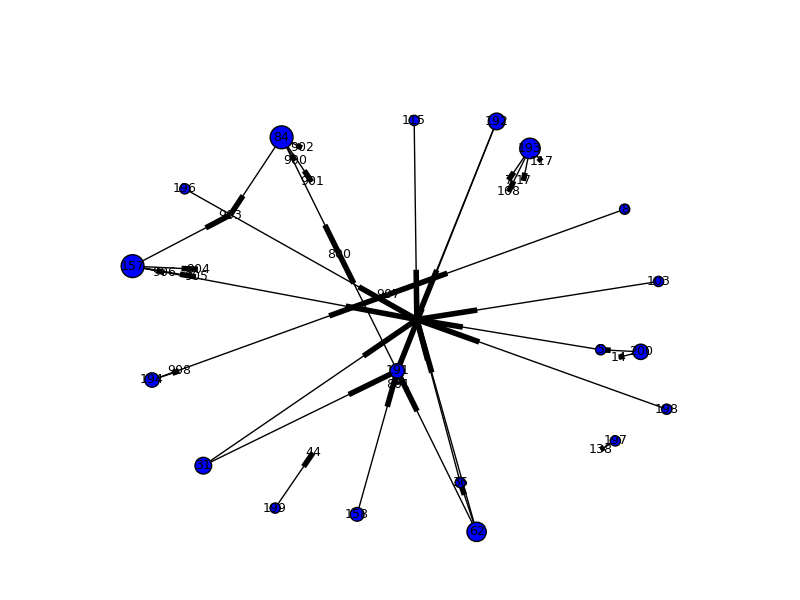
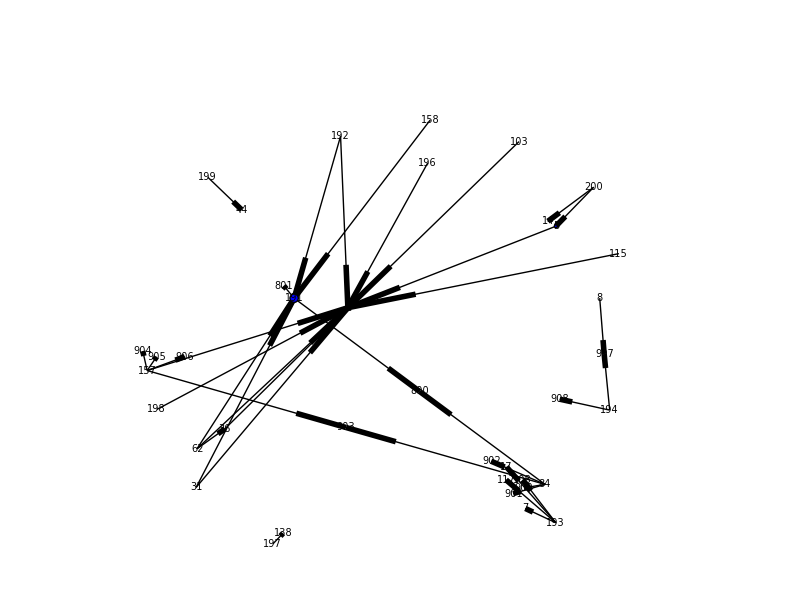
revision

diff --git a/analyze_network.py b/analyze_network.py
@@ -64,38 +64,67 @@ def analyzenetwork(networkname, centrality):
 		os.makedirs(outputs)
 
 
-	# draw the network with matplotlib by closeness or betweeness; alternatively one can choose to draw and compare regular networks
-	if str(centrality) == "none": # drawing regular networks
+	# centrality calculation and visualization
+	if str(centrality) == "eigenvector": 
+		# calculating centrality
+		eigenvector = nx.eigenvector_centrality(g)
+		# create a file with nodes sorted by their eigenvector centrality, and save it under the Outputs directory
+		sorted_eigenvector = sorted(eigenvector.items(), key=operator.itemgetter(1), reverse=True)
+		#print sorted_eigenvector, type(sorted_eigenvector)
+		centrality_value_file = path + "/Outputs/" + str(networkname) + '_eigenvector' + '.txt'
+		f_centrality = open(centrality_value_file, 'w')
+		for item in sorted_eigenvector:
+			#print item, type(item)
+			#print item[0], item[1], type(item[0]), type(item[1])
+			f_centrality.write(item[0])
+			f_centrality.write(',')
+			f_centrality.write(str(item[1]))
+			f_centrality.write("\n")
+		f_centrality.close()
+		#print f_centrality
 
-		# calculating related centrality
+		# visualize the network and save it as a .png file under the Pics dictory
+		e = eigenvector
+		#lyt = nx.layout.spring_layout(g) # making sure the node positions are the same
+		nx.draw(g, with_labels=True, node_color='blue', nodelist=e.keys(), node_size=[v * 1000 for v in e.values()], font_size=7)
+
+		filename = "Pics/" + str(networkname) + "_" + str(centrality) + '.png'
+		plt.savefig(filename)
+
+		#return(eigenvector)
+
+	elif str(centrality) == "closeness": 
+		# calculating centrality
+		closeness = nx.closeness_centrality(g)
+		# create a file with nodes sorted by their closeness centrality, and save it under the Outputs directory
+		sorted_closeness = sorted(closeness.items(), key=operator.itemgetter(1), reverse=True)
+		#print sorted_closeness, type(sorted_closeness)
+		centrality_value_file = path + "/Outputs/" + str(networkname) + '_closeness' + '.txt'
+		f_centrality = open(centrality_value_file, 'w')
+		for item in sorted_closeness:
+			#print item, type(item)
+			#print item[0], item[1], type(item[0]), type(item[1])
+			f_centrality.write(item[0])
+			f_centrality.write(',')
+			f_centrality.write(str(item[1]))
+			f_centrality.write("\n")
+		f_centrality.close()
+		#print f_centrality
+
+		# visualize the network and save it as a .png file under the Pics dictory
+		c = closeness
+		#lyt = nx.layout.spring_layout(g) # making sure the node positions are the same
+		nx.draw(g, with_labels=True, node_color='blue', nodelist=c.keys(), node_size=[v * 1000 for v in c.values()], font_size=7)
+
+		filename = "Pics/" + str(networkname) + "_" + str(centrality) + '.png'
+		plt.savefig(filename)
+
+
+		#return(closeness)
+
+	elif str(centrality) == "betweenness": 
+		# calculating centrality
 		betweenness = nx.betweenness_centrality(g)
-		closeness = nx.closeness_centrality(g)
-
-		#lyt = nx.layout.spring_layout(g) # making sure the node positions are the same
-		nx.draw(g, with_labels=True, node_color='blue', font_size=9)
-
-		filename = "Pics/" + str(networkname) + "_" + str(centrality) + '.png'
-		plt.savefig(filename)
-
-		return(betweenness, closeness)
-
-	elif str(centrality) == "closeness": # node size adjusted according to closeness
-		# calculating related centrality
-		closeness = nx.closeness_centrality(g)
-
-		d = closeness
-		#lyt = nx.layout.spring_layout(g) # making sure the node positions are the same
-		nx.draw(g, with_labels=True, node_color='blue', nodelist=d.keys(), node_size=[v * 500 for v in d.values()], font_size=9)
-
-		filename = "Pics/" + str(networkname) + "_" + str(centrality) + '.png'
-		plt.savefig(filename)
-
-
-		return(closeness)
-
-	elif str(centrality) == "betweenness": # node size adjusted according to betweenness
-		# calculating related centrality
-		betweenness = nx.closeness_centrality(g)
 		
 		# create a file with nodes sorted by their betweenness centrality, and save it under the Outputs directory
 		sorted_betweenness = sorted(betweenness.items(), key=operator.itemgetter(1), reverse=True)
@@ -115,9 +144,9 @@ def analyzenetwork(networkname, centrality):
 
 		
 		# visualize the network and save it as a .png file under the Pics dictory
-		z = betweenness
+		b = betweenness
 		#lyt = nx.layout.spring_layout(g) # making sure the node positions are the same
-		nx.draw(g, with_labels=True, node_color='blue', nodelist=z.keys(), node_size=[v * 2000 for v in z.values()], font_size=9)
+		nx.draw(g, with_labels=True, node_color='blue', nodelist=b.keys(), node_size=[v * 6000 for v in b.values()], font_size=7)
 		filename = "Pics/" + str(networkname) + "_" + str(centrality) + '.png'
 		plt.savefig(filename)
 	
